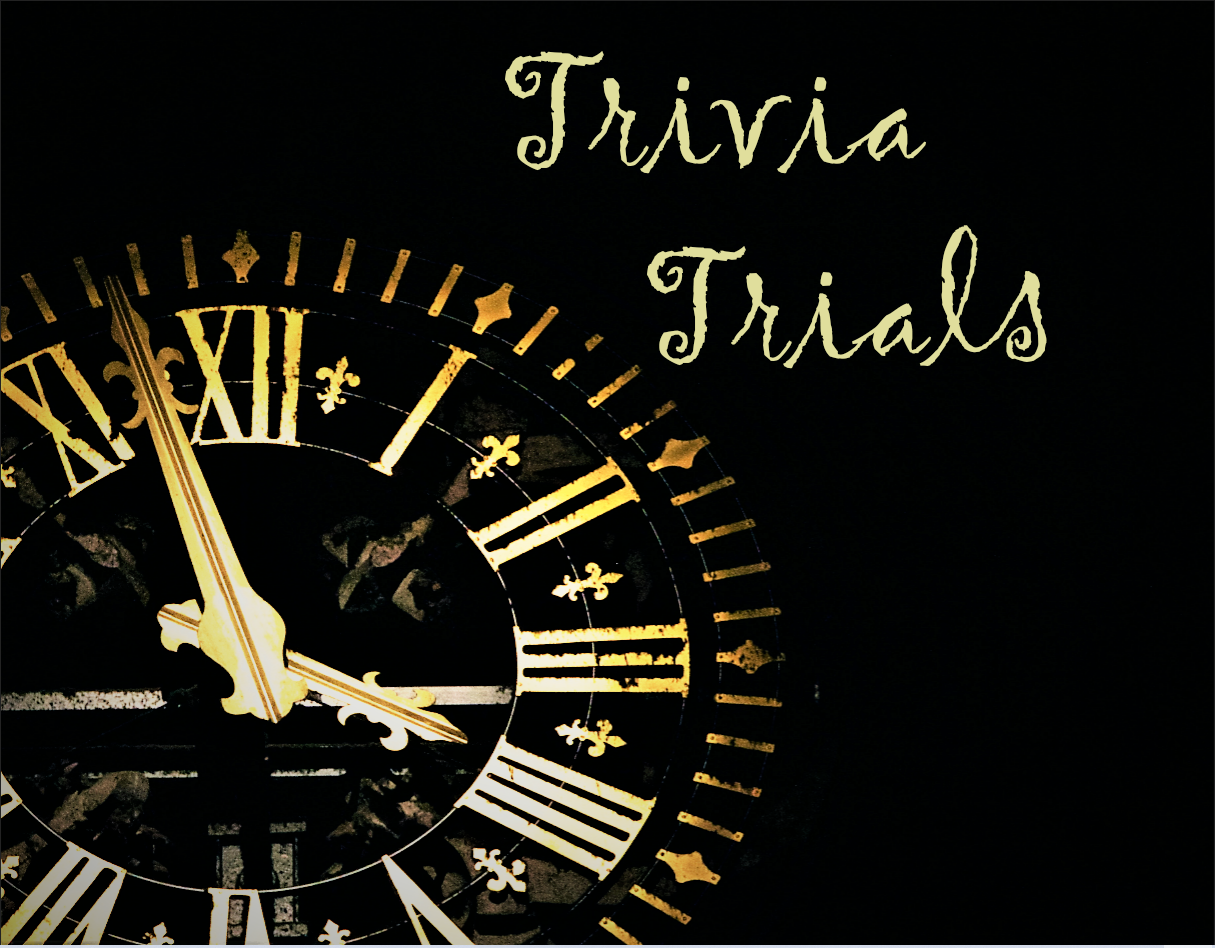
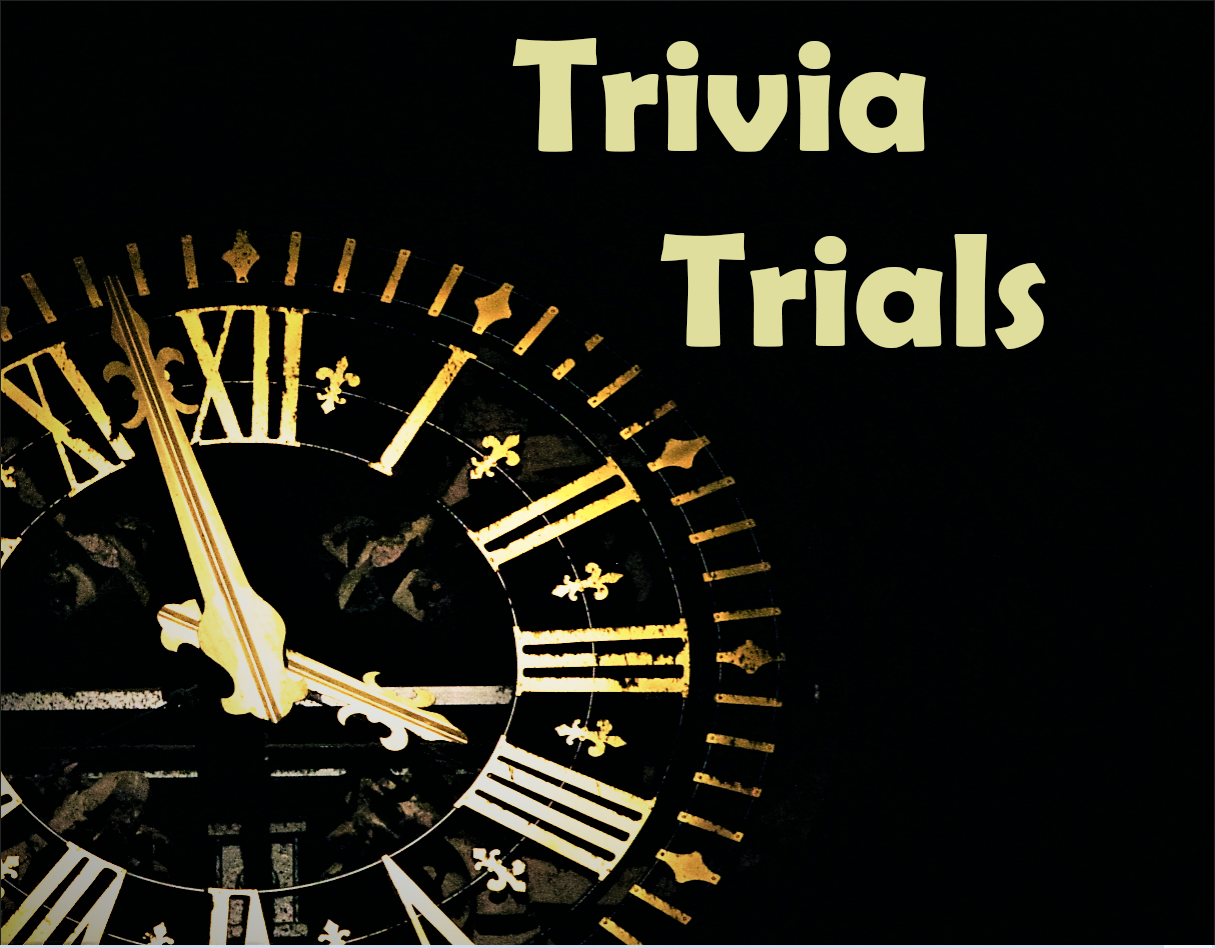
1- Add assert game is initiated, new Clock background

Changed region(s): [[0.3959, 0.0306, 0.7613, 0.1835], [0.5177, 0.2447, 0.8831, 0.3977]]

diff --git a/TriviaTrialsApp/src/app/start-screen/start-screen.component.spec.ts b/TriviaTrialsApp/src/app/start-screen/start-screen.component.spec.ts
@@ -38,6 +38,8 @@ describe('StartScreenComponent', () => {
 
     // Event has been emitted with the player's name
     expect(component.newSinglePlayerGameEvent.emit).toHaveBeenCalledWith('Tester');
+    // Game has been initiated
+    expect(component.gameInitiated).toBeTrue()
  });
 
  it('should not emit event when "Single Player Game" is clicked and a name not provided', () => {
@@ -46,7 +48,7 @@ describe('StartScreenComponent', () => {
   const component = fixture.componentInstance;
   spyOn(component.newSinglePlayerGameEvent, 'emit');
 
-  // trigger the click
+  // Click single player button
   const nativeElement = fixture.nativeElement;
   const button = nativeElement.querySelector('.single-player-button');
   button.dispatchEvent(new Event('click'));
